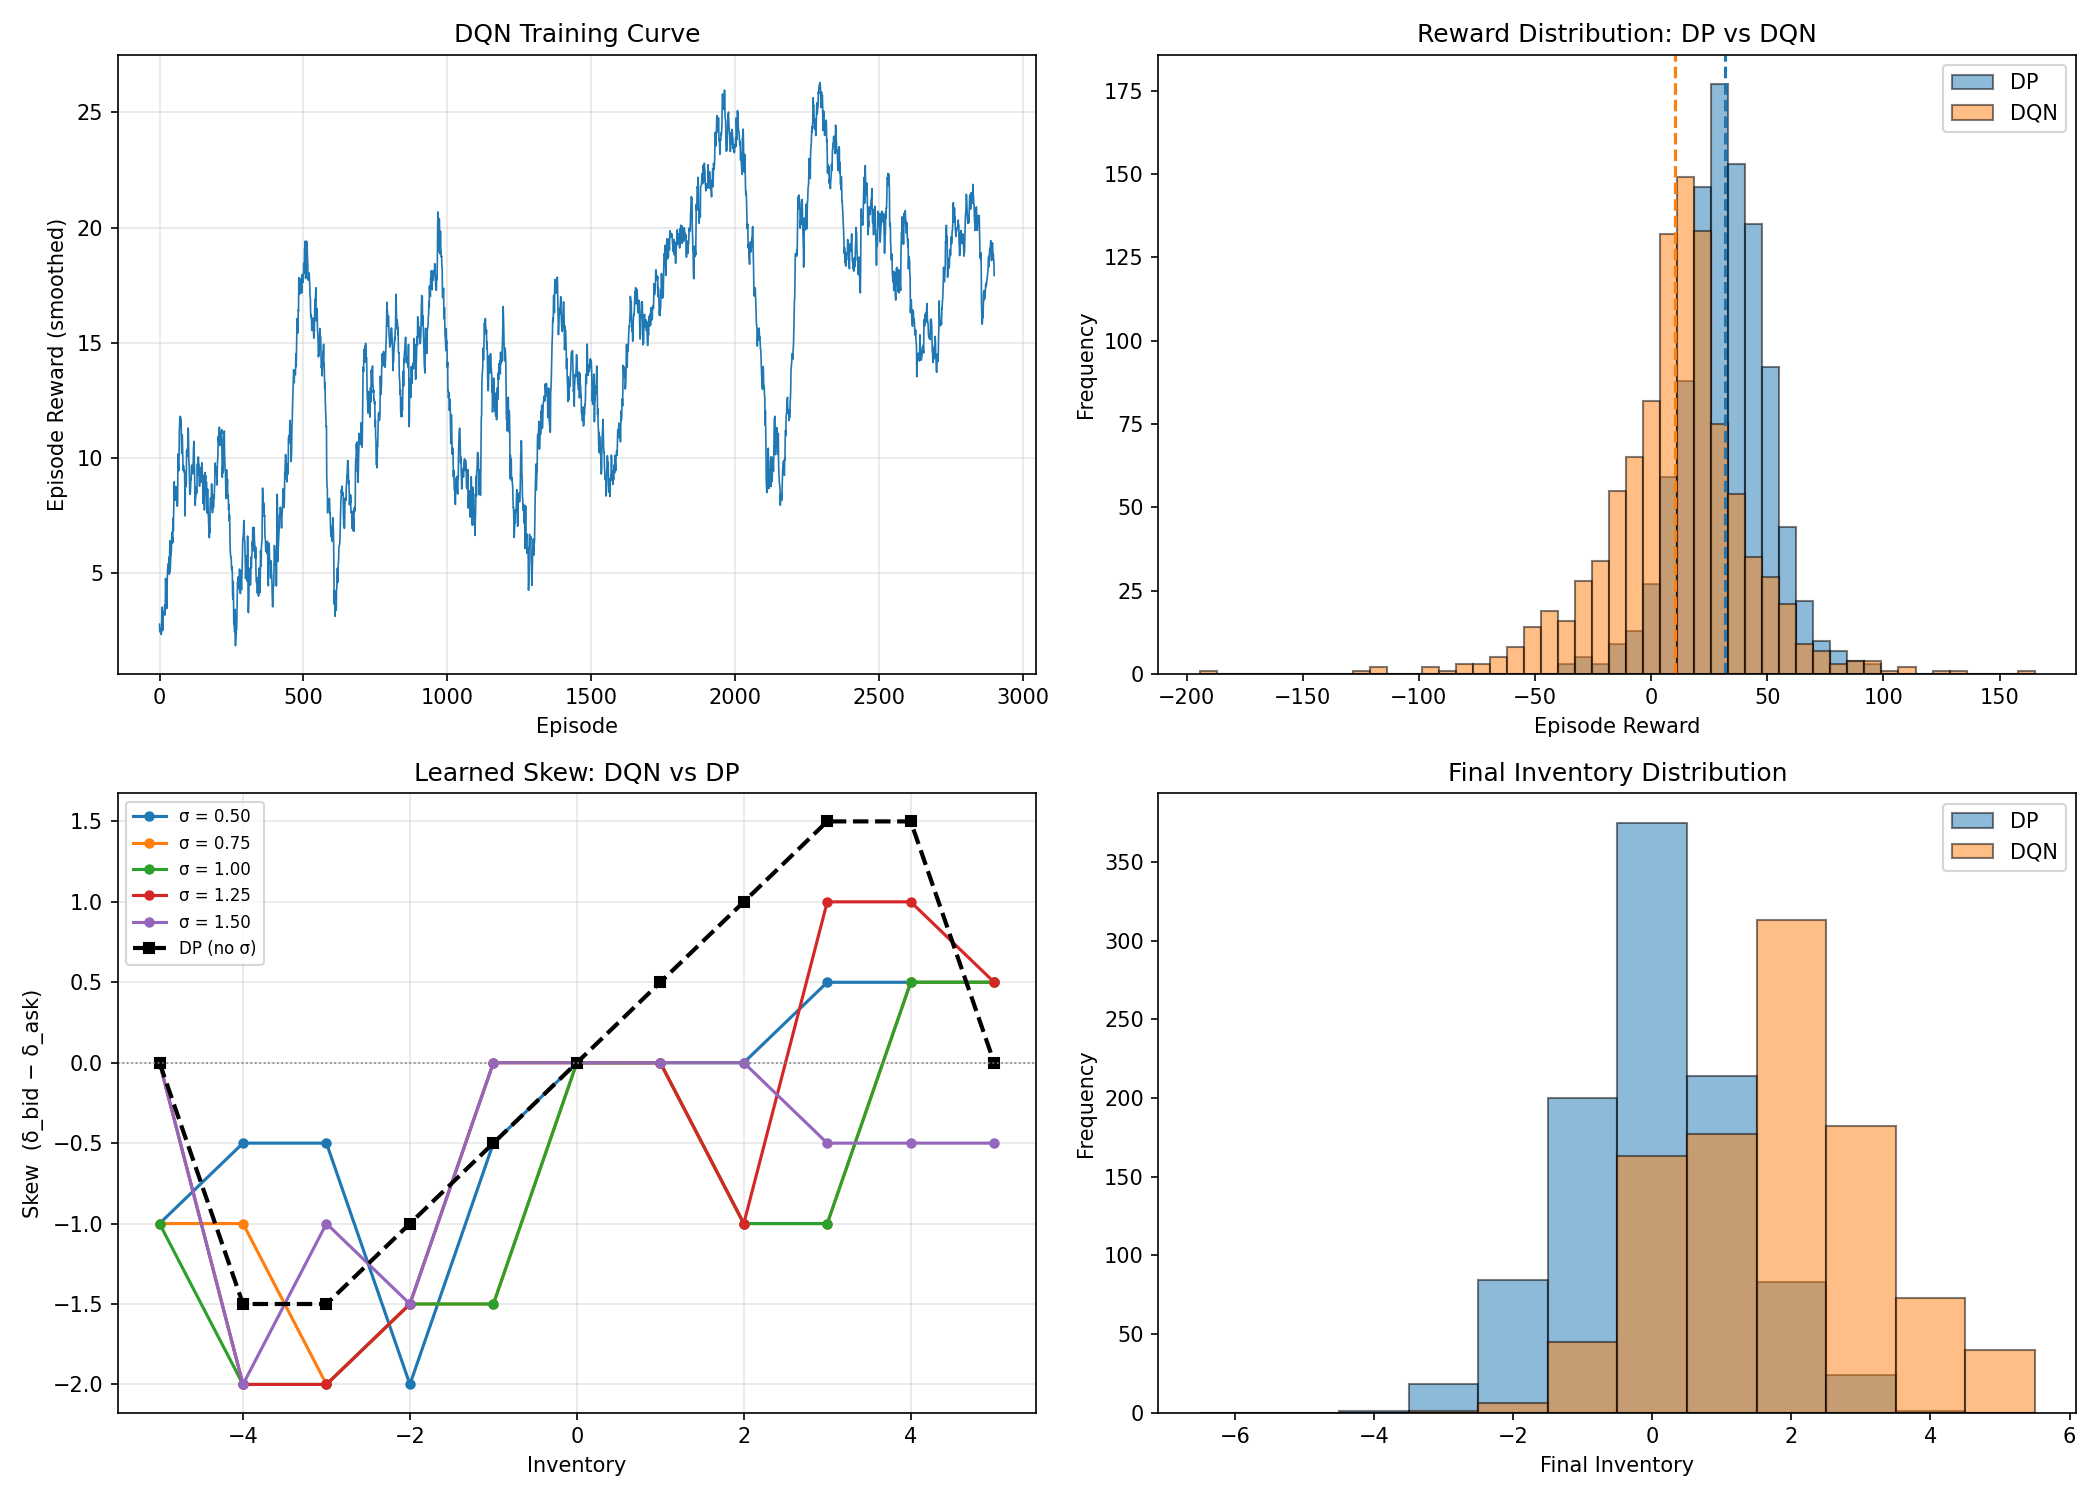
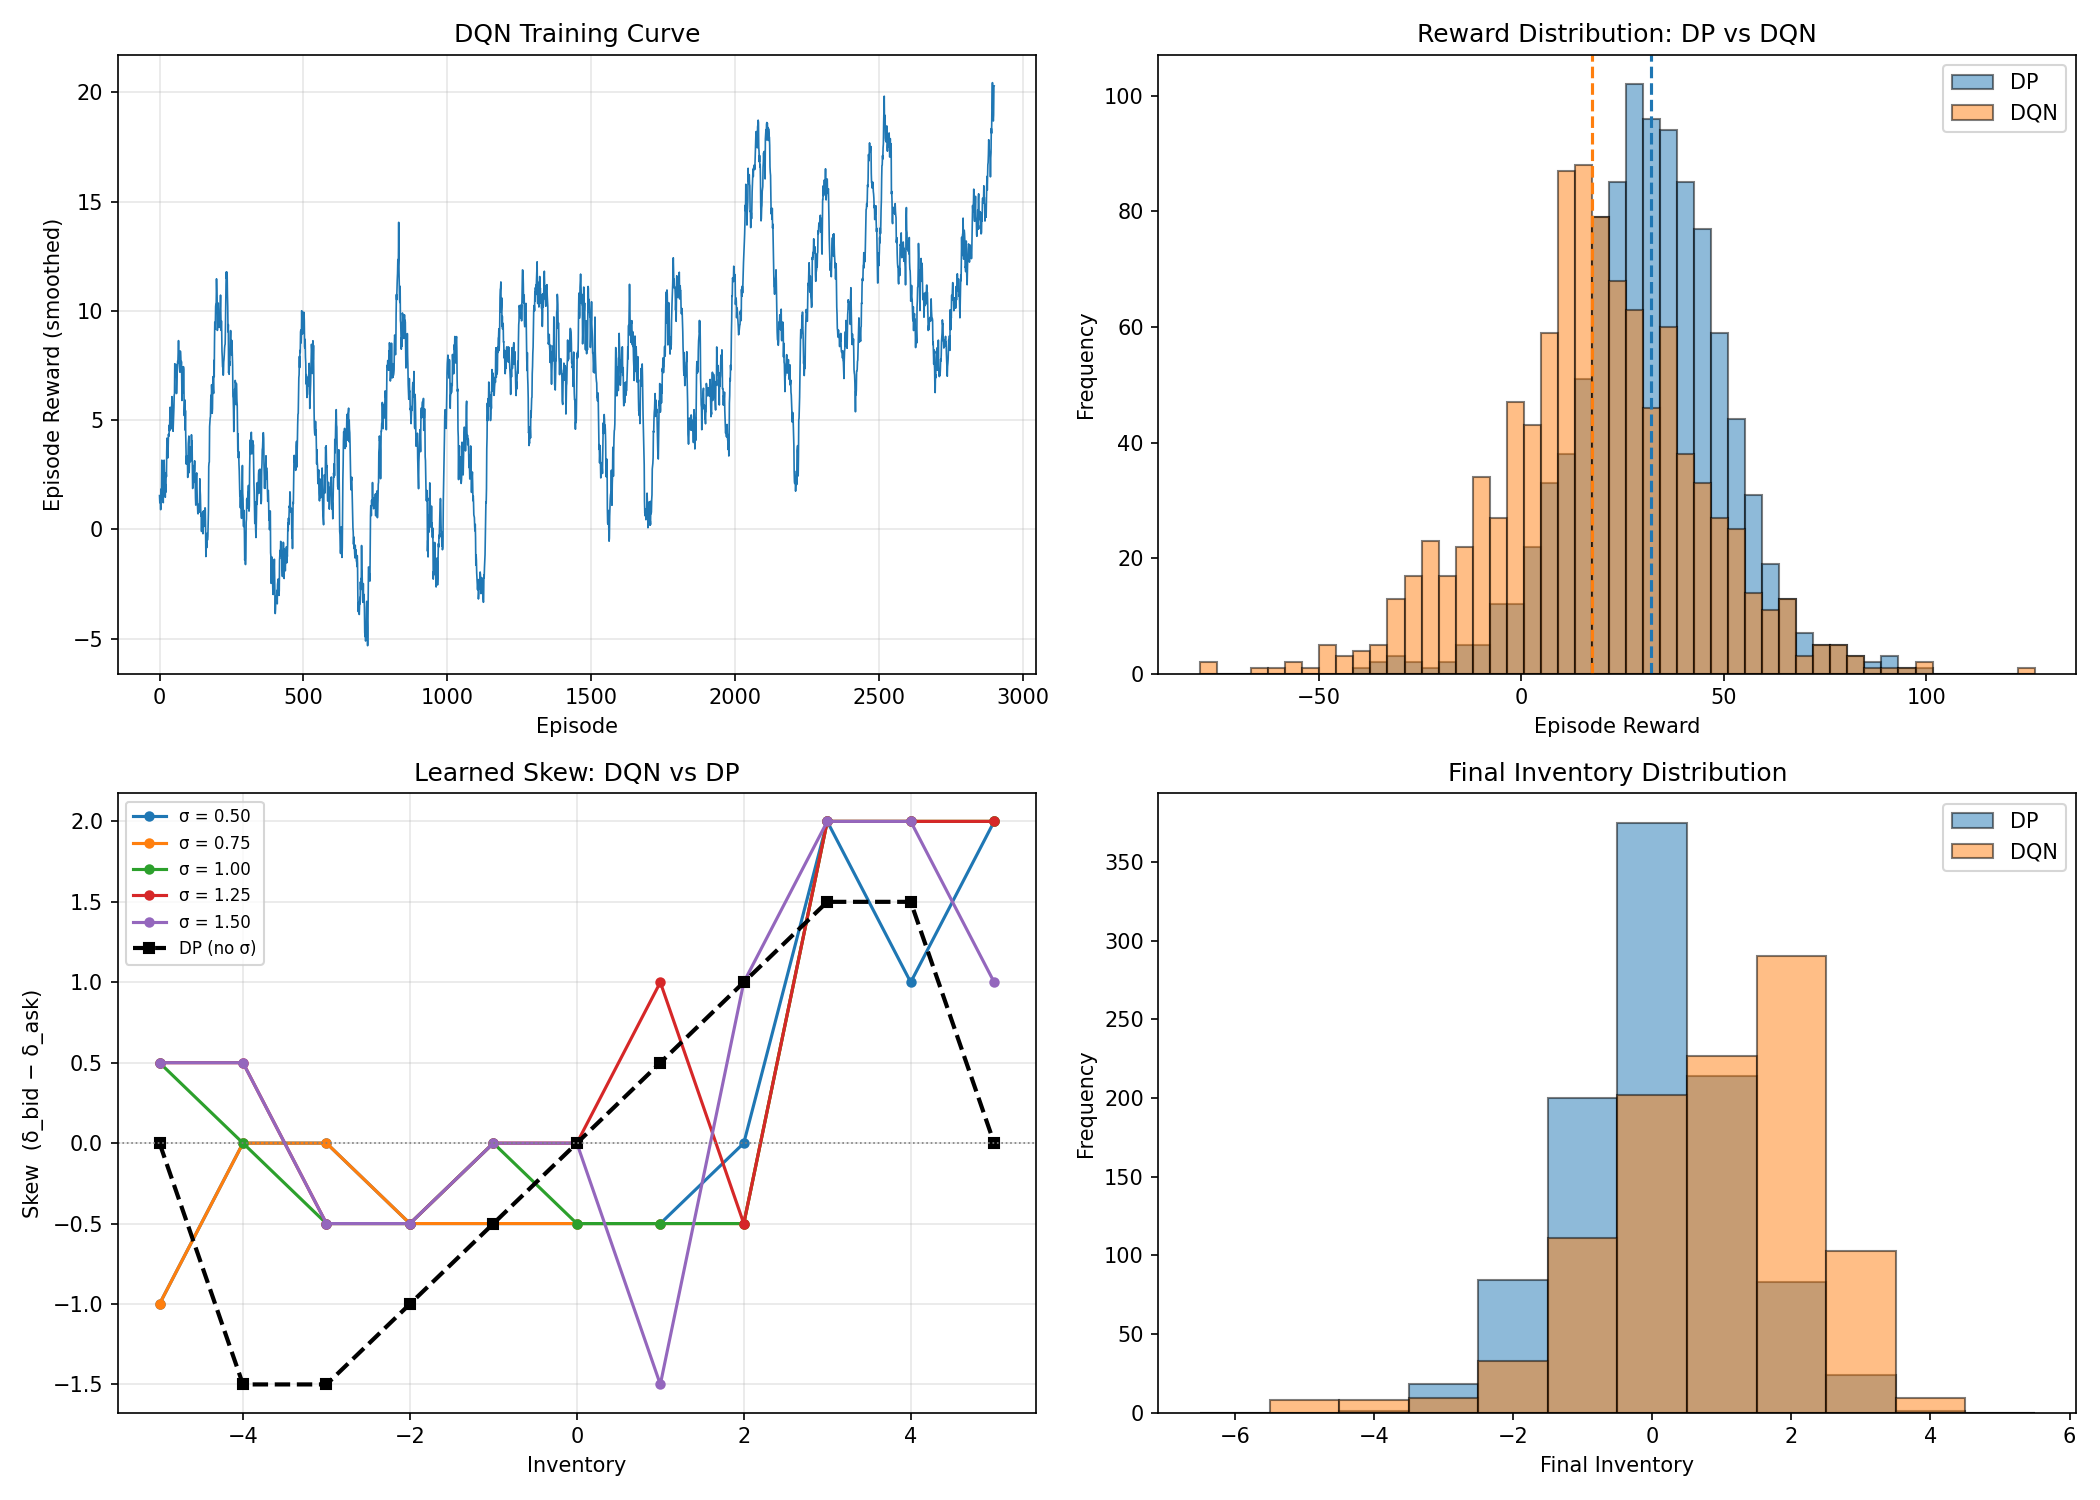
DQN: Double DQN, Huber loss, soft targets, step-based epsilon decay, learning_starts

diff --git a/project/market_making/dqn_agent.py b/project/market_making/dqn_agent.py
@@ -1,7 +1,8 @@
 """Phase 3: Deep Q-Network agent for market making.
 
 Architecture: simple MLP  →  Q(s, ·) for each discrete spread action.
-Training uses experience replay + periodic target-network sync.
+Training: Double DQN, Huber loss, soft target updates, step-based ε-decay,
+optional reward clipping. Experience replay with learning_starts delay.
 """
 
 import random
@@ -59,9 +60,17 @@ class DQNAgent:
         gamma: float = 0.99,
         buffer_size: int = 50_000,
         batch_size: int = 64,
-        target_update_freq: int = 200,
         hidden_dim: int = 64,
         seed: int = None,
+        # --- Double DQN + loss: no new args (Huber in code) ---
+        # --- learning_starts: no gradient updates until total_steps > this ---
+        learning_starts: int = 10_000,
+        # --- soft target updates (Polyak) ---
+        tau: float = 0.005,
+        # --- optional reward clipping ---
+        clip_reward: bool = False,
+        # kept for API compatibility; ignored when using step-based decay
+        target_update_freq: int = 200,
     ):
         if seed is not None:
             torch.manual_seed(seed)
@@ -70,7 +79,9 @@ class DQNAgent:
         self.n_actions = n_actions
         self.gamma = gamma
         self.batch_size = batch_size
-        self.target_update_freq = target_update_freq
+        self.learning_starts = learning_starts  # [CHANGE] no updates until total_steps > this
+        self.tau = tau                          # [CHANGE] soft target update (Polyak)
+        self.clip_reward = clip_reward          # [CHANGE] clip rewards to [-1, 1] when True
 
         self.device = torch.device("cuda" if torch.cuda.is_available() else "cpu")
 
@@ -80,7 +91,8 @@ class DQNAgent:
 
         self.optimiser = optim.Adam(self.q_net.parameters(), lr=lr)
         self.buffer = ReplayBuffer(buffer_size)
-        self.train_steps = 0
+        self.train_steps = 0   # number of gradient steps taken
+        self.total_steps = 0   # [CHANGE] total environment steps (for learning_starts + ε decay)
 
     # ── action selection ─────────────────────────────────────────────
 
@@ -91,10 +103,13 @@ class DQNAgent:
             s = torch.FloatTensor(state).unsqueeze(0).to(self.device)
             return int(self.q_net(s).argmax(dim=1).item())
 
-    # ── one gradient step ────────────────────────────────────────────
+    # ── one gradient step (Double DQN, Huber, soft target, learning_starts) ─
 
     def _update(self):
         if len(self.buffer) < self.batch_size:
+            return None
+        # [CHANGE] No gradient updates until total env steps exceed learning_starts
+        if self.total_steps < self.learning_starts:
             return None
 
         states, actions, rewards, next_states, dones = self.buffer.sample(
@@ -108,11 +123,16 @@ class DQNAgent:
 
         q_vals = self.q_net(states).gather(1, actions.unsqueeze(1)).squeeze(1)
 
+        # [CHANGE] Double DQN: online net selects action, target net evaluates it
         with torch.no_grad():
-            next_q = self.target_net(next_states).max(dim=1)[0]
+            next_actions = self.q_net(next_states).argmax(dim=1)
+            next_q = self.target_net(next_states).gather(
+                1, next_actions.unsqueeze(1)
+            ).squeeze(1)
             targets = rewards + self.gamma * next_q * (1 - dones)
 
-        loss = nn.MSELoss()(q_vals, targets)
+        # [CHANGE] Huber loss (Smooth L1) instead of MSE
+        loss = nn.SmoothL1Loss()(q_vals, targets)
 
         self.optimiser.zero_grad()
         loss.backward()
@@ -120,12 +140,18 @@ class DQNAgent:
         self.optimiser.step()
 
         self.train_steps += 1
-        if self.train_steps % self.target_update_freq == 0:
-            self.target_net.load_state_dict(self.q_net.state_dict())
+
+        # [CHANGE] Soft target update (Polyak) every step instead of hard sync
+        for target_param, param in zip(
+            self.target_net.parameters(), self.q_net.parameters()
+        ):
+            target_param.data.copy_(
+                self.tau * param.data + (1.0 - self.tau) * target_param.data
+            )
 
         return loss.item()
 
-    # ── full training loop ───────────────────────────────────────────
+    # ── full training loop (step-based ε decay, optional reward clipping) ───
 
     def train(
         self,
@@ -134,26 +160,35 @@ class DQNAgent:
         epsilon_start: float = 1.0,
         epsilon_end: float = 0.02,
         epsilon_decay_episodes: int = 2000,
+        epsilon_decay_steps: int = None,
         verbose: bool = True,
     ):
+        # [CHANGE] Step-based epsilon decay: default decay over 400k steps if not set
+        if epsilon_decay_steps is None:
+            epsilon_decay_steps = 400_000
         episode_rewards: list[float] = []
         losses: list[float] = []
 
         for ep in range(n_episodes):
-            frac = min(1.0, ep / max(epsilon_decay_episodes, 1))
-            epsilon = epsilon_start + frac * (epsilon_end - epsilon_start)
-
             obs = env.reset()
             total_reward = 0.0
             done = False
 
             while not done:
+                # [CHANGE] Epsilon from total_steps (linear decay over epsilon_decay_steps)
+                decay_frac = min(1.0, self.total_steps / max(epsilon_decay_steps, 1))
+                epsilon = epsilon_end + (1.0 - decay_frac) * (epsilon_start - epsilon_end)
+
                 action = self.select_action(obs, epsilon)
                 next_obs, reward, done, _ = env.step(action)
+                # [CHANGE] Optional reward clipping to [-1, 1]
+                if self.clip_reward:
+                    reward = float(np.clip(reward, -1.0, 1.0))
                 self.buffer.push(obs, action, reward, next_obs, done)
                 obs = next_obs
                 total_reward += reward
 
+                self.total_steps += 1
                 loss = self._update()
                 if loss is not None:
                     losses.append(loss)
@@ -165,12 +200,12 @@ class DQNAgent:
                 print(
                     f"  ep {ep+1:>5d}/{n_episodes}  "
                     f"reward(last 500)={np.mean(recent):+.2f}  "
-                    f"ε={epsilon:.3f}"
+                    f"ε={epsilon:.3f}  steps={self.total_steps}"
                 )
 
         return episode_rewards, losses
 
-    # ── evaluation ───────────────────────────────────────────────────
+    # ── evaluation (unchanged signature and behaviour) ──────────────────────
 
     def evaluate(self, env, n_episodes: int = 1000):
         episode_rewards: list[float] = []

diff --git a/project/run_phase3.py b/project/run_phase3.py
@@ -55,7 +55,7 @@ def main():
     V_dp, policy_dp, _ = value_iteration(params, verbose=False)
     print("  DP converged.")
 
-    # ── Step 2: train DQN ────────────────────────────────────────────
+    # ── Step 2: train DQN (Double DQN, Huber loss, soft targets, step ε-decay) ─
     print("\n[2/4] Training DQN (state = [inventory, volatility]) …")
     train_env = MarketMakingEnv(params, use_volatility_dynamics=True, seed=42)
 
@@ -65,8 +65,10 @@ def main():
         lr=5e-4,
         gamma=params.discount,
         batch_size=64,
-        target_update_freq=200,
         hidden_dim=128,
+        learning_starts=10_000,
+        tau=0.005,
+        clip_reward=False,
         seed=42,
     )
 
@@ -75,7 +77,8 @@ def main():
         n_episodes=3000,
         epsilon_start=1.0,
         epsilon_end=0.02,
-        epsilon_decay_episodes=2000,
+        epsilon_decay_steps=400_000,
+        verbose=True,
     )
 
     # ── Step 3: evaluate both ────────────────────────────────────────
